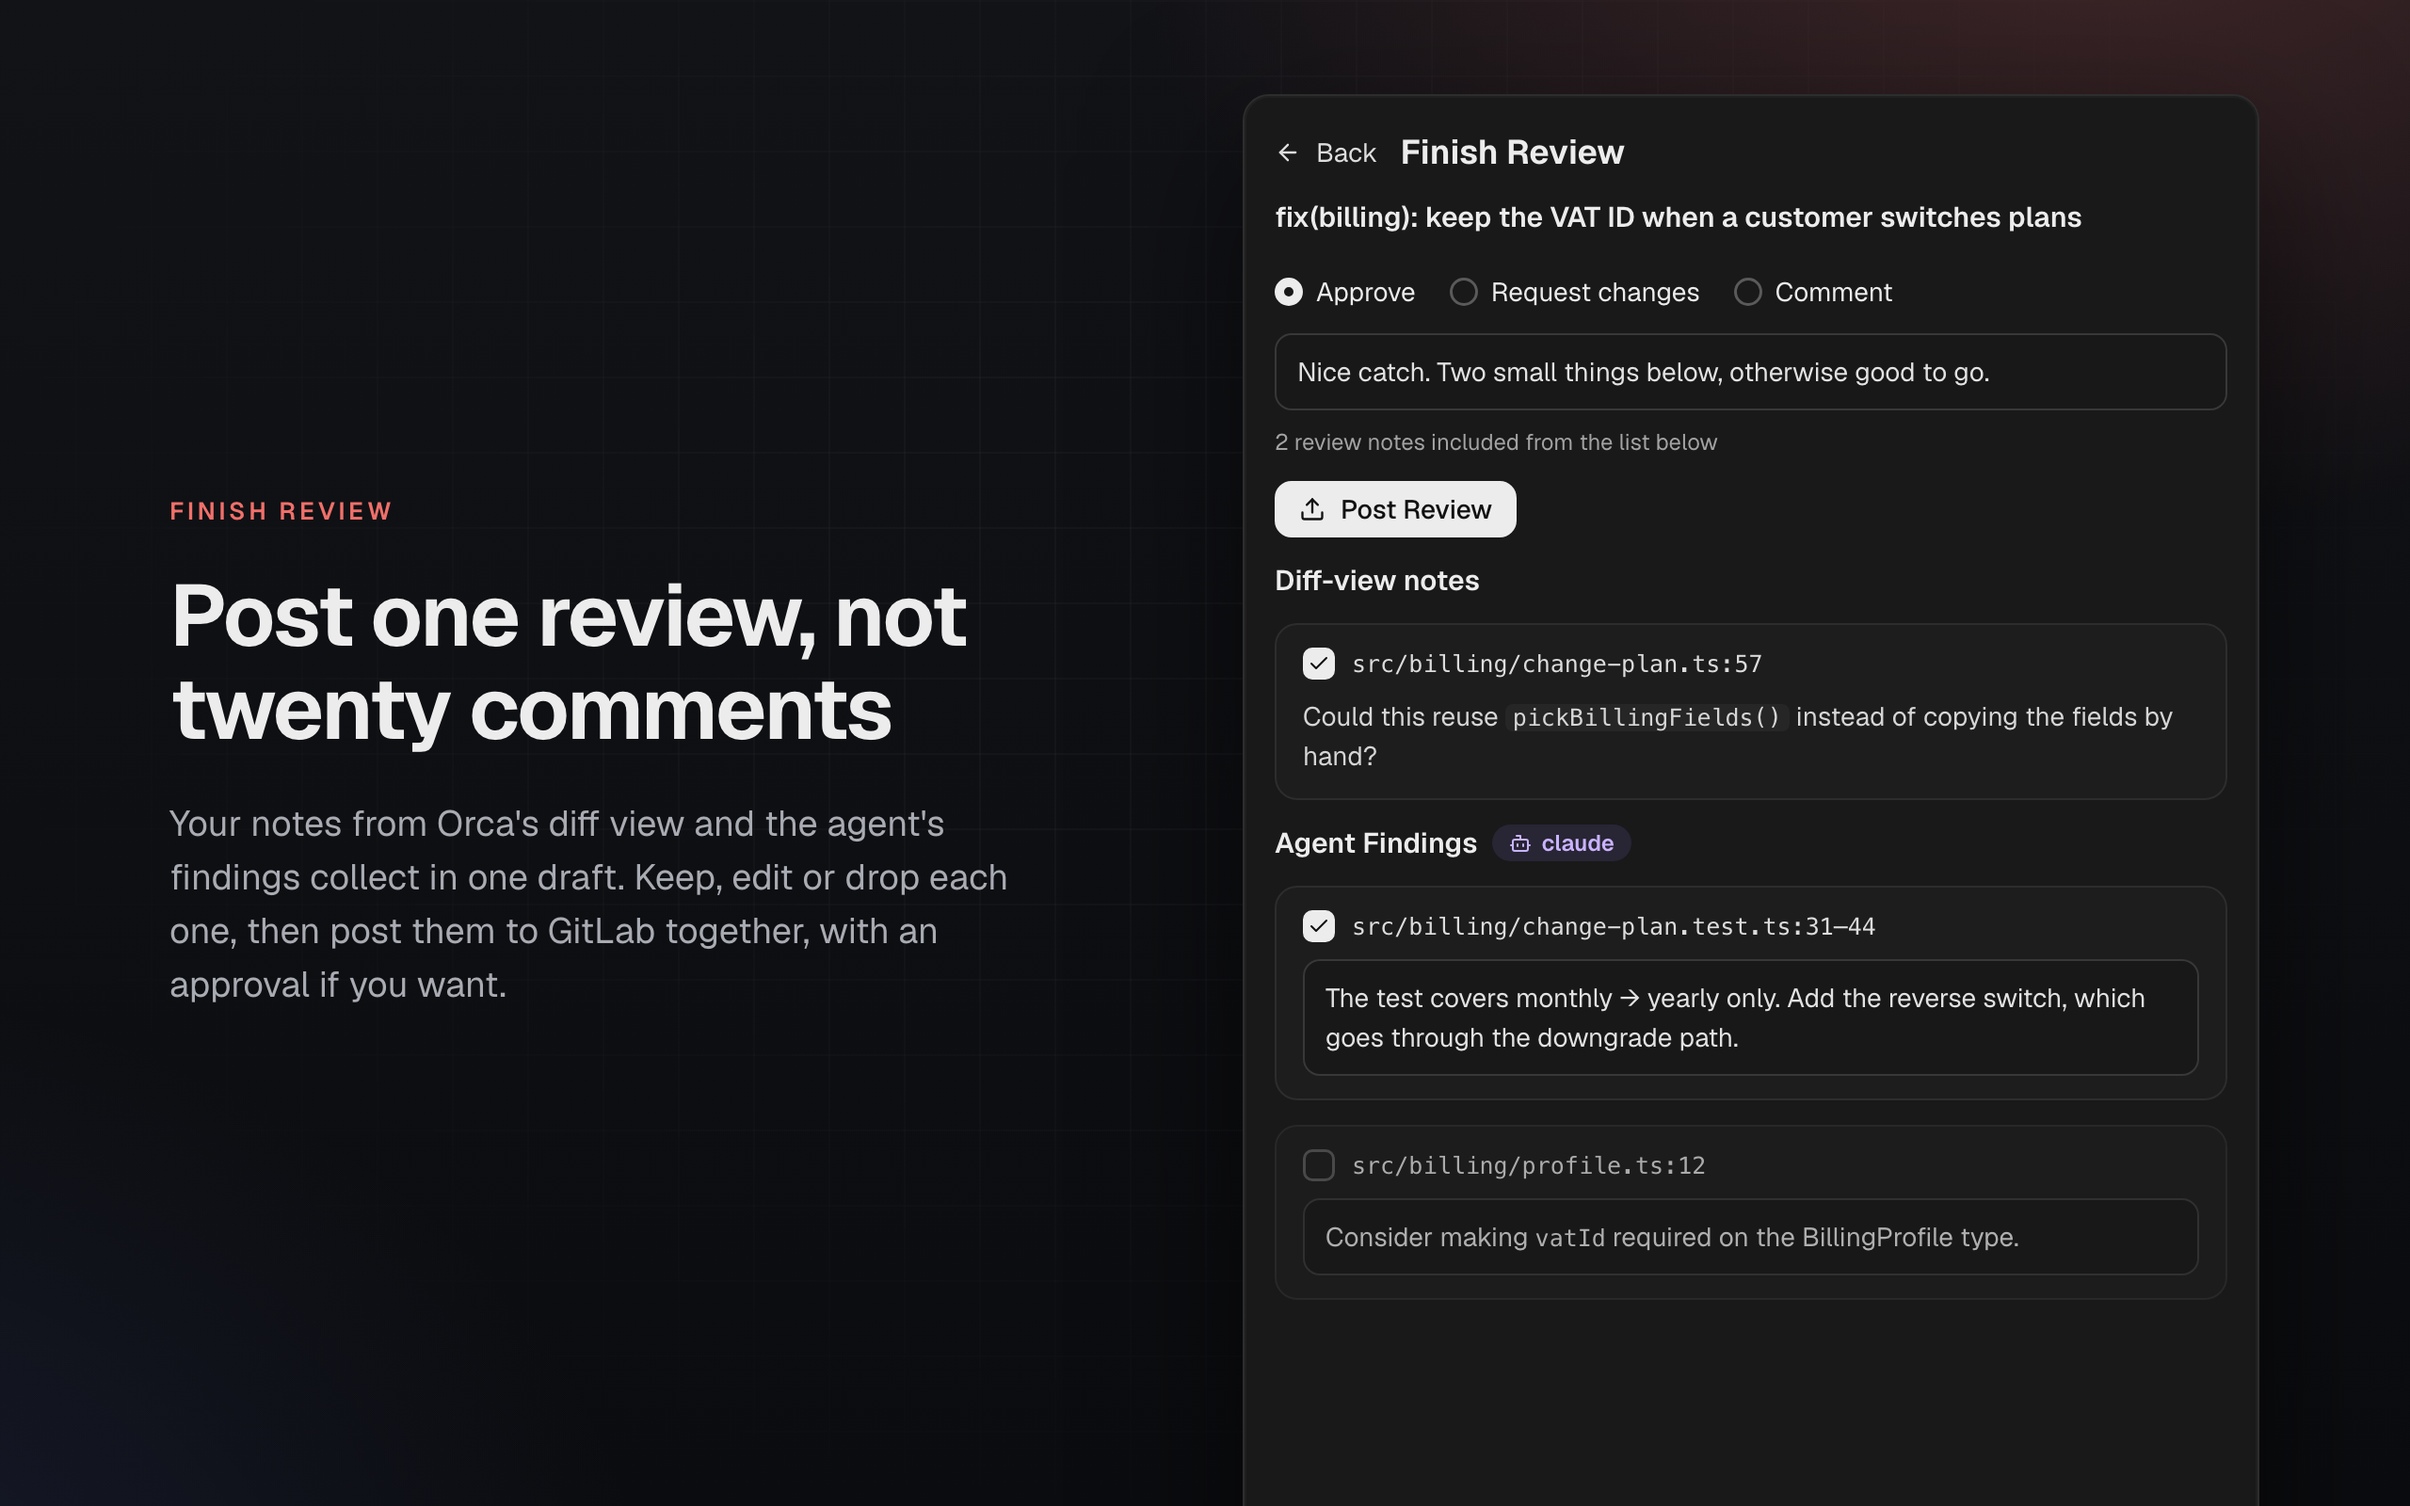
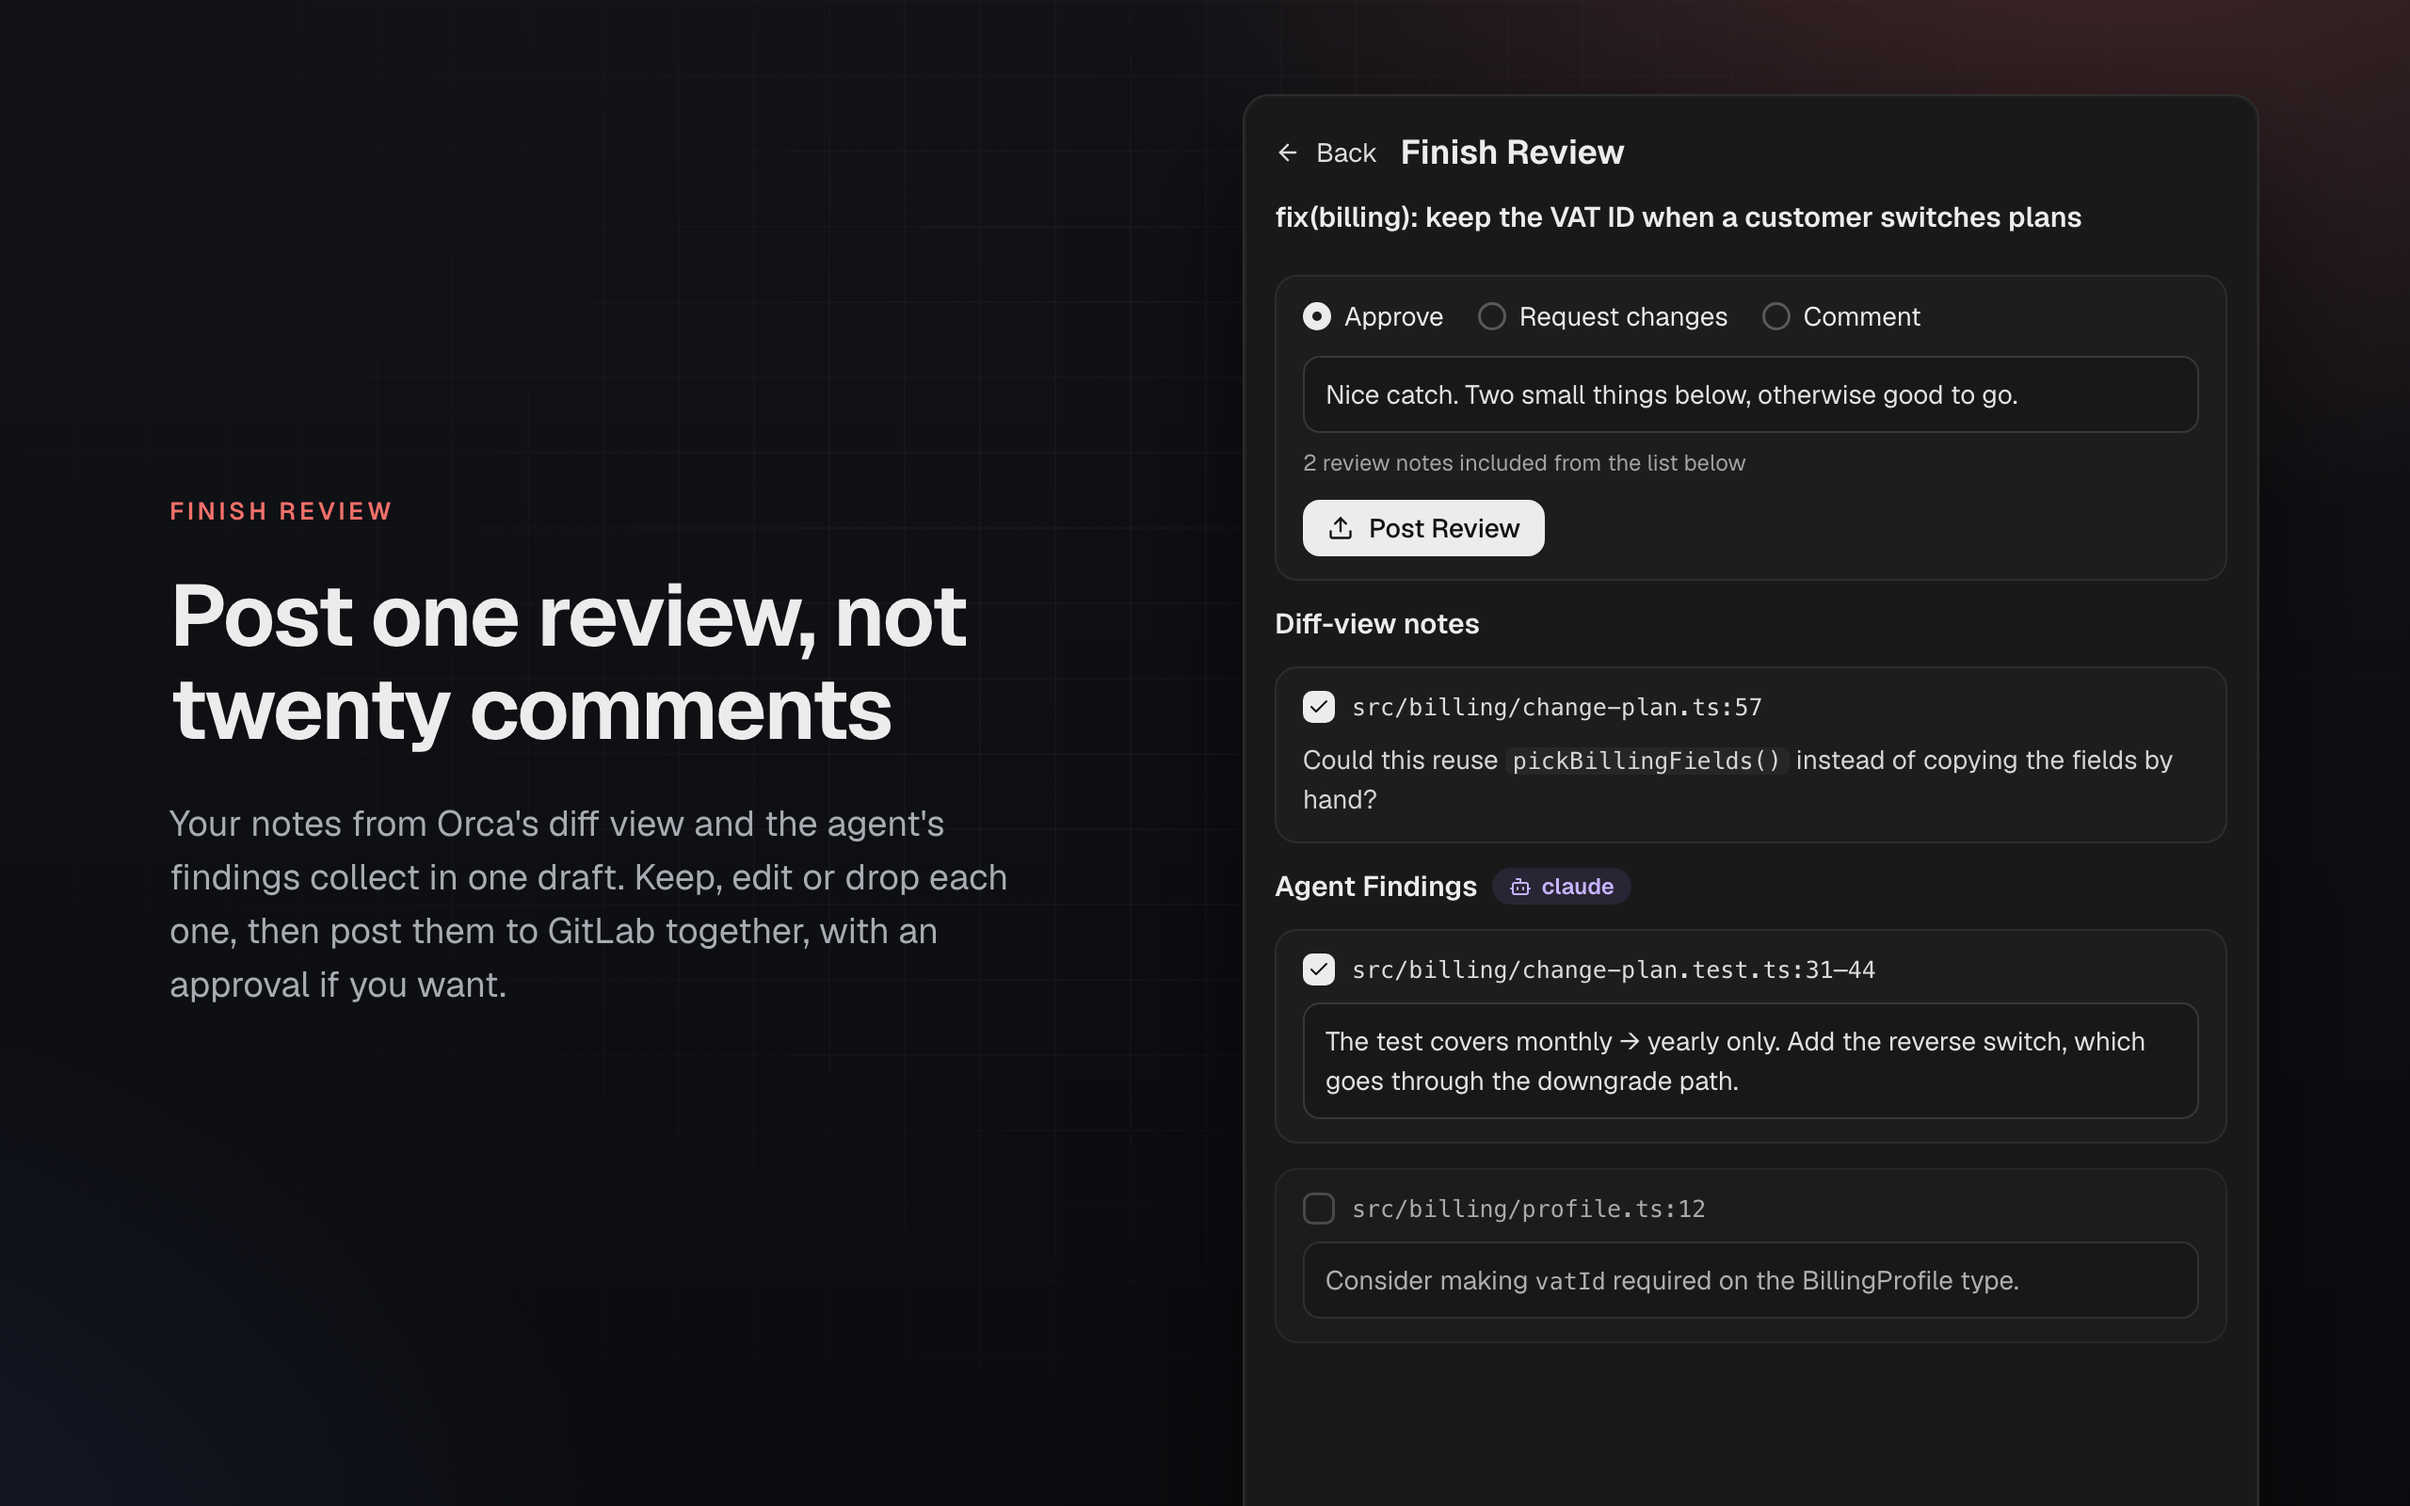
Code Review Requests 0.6.7: the outcome, summary and Post Review sit in a card

Changed region(s): [[0.5312, 0.1875, 0.9062, 0.875]]

diff --git a/plugins/code-review-requests/src/review-post-view.tsx b/plugins/code-review-requests/src/review-post-view.tsx
@@ -6,6 +6,7 @@
 // and the worker turns a 403 into the same hint.
 import {
   atom,
+  Box,
   Callout,
   plugin,
   RadioGroup,
@@ -155,54 +156,56 @@ export function PostSection(props: { draft: ReviewDraftView; onDraft: (draft: Re
   return (
     <Stack gap="sm">
       {current.kind === 'done' && <Outcome result={current.result} draft={draft} onDraft={onDraft} />}
-      <RadioGroup
-        label="Outcome"
-        labelHidden
-        orientation="horizontal"
-        options={OUTCOMES}
-        value={outcomeFor(draft)}
-        disabled={busy}
-        onChange={(value) => set(outcome, value as ReviewOutcome)}
-      />
-      <Textarea
-        label="Summary"
-        labelHidden
-        rows={2}
-        placeholder="Optional: a note on the whole review"
-        value={read(summary)}
-        disabled={busy}
-        onChange={(value) => set(summary, value)}
-      />
-      <Text muted size="xs">{`${plural(unposted, 'review note')} included from the list below`}</Text>
-      {current.kind === 'confirm' && <Warnings preview={current.preview} />}
-      <Row gap="sm">
-        {current.kind === 'confirm' && confirming ? (
-          <Button icon="upload" onPress={() => post(current.preview, outcomeFor(draft), onDraft)}>
-            Post Anyway
-          </Button>
-        ) : (
-          <Button icon="upload" disabled={blocked || nothingToPost || busy} onPress={() => startPost(draft, onDraft)}>
-            Post Review
-          </Button>
+      <Box border radius="md" padding="sm" direction="column" gap="sm">
+        <RadioGroup
+          label="Outcome"
+          labelHidden
+          orientation="horizontal"
+          options={OUTCOMES}
+          value={outcomeFor(draft)}
+          disabled={busy}
+          onChange={(value) => set(outcome, value as ReviewOutcome)}
+        />
+        <Textarea
+          label="Summary"
+          labelHidden
+          rows={2}
+          placeholder="Optional: a note on the whole review"
+          value={read(summary)}
+          disabled={busy}
+          onChange={(value) => set(summary, value)}
+        />
+        <Text muted size="xs">{`${plural(unposted, 'review note')} included from the list below`}</Text>
+        {current.kind === 'confirm' && <Warnings preview={current.preview} />}
+        <Row gap="sm">
+          {current.kind === 'confirm' && confirming ? (
+            <Button icon="upload" onPress={() => post(current.preview, outcomeFor(draft), onDraft)}>
+              Post Anyway
+            </Button>
+          ) : (
+            <Button icon="upload" disabled={blocked || nothingToPost || busy} onPress={() => startPost(draft, onDraft)}>
+              Post Review
+            </Button>
+          )}
+          {confirming && (
+            <Button variant="ghost" onPress={() => set(step, { kind: 'idle' })}>
+              Cancel
+            </Button>
+          )}
+          {current.kind === 'loading' && <Spinner label="Checking GitLab" labelHidden />}
+          {posting && <Spinner label="Posting" labelHidden />}
+        </Row>
+        {blocked && (
+          <Text muted size="xs">
+            {API_SCOPE_HINT}
+          </Text>
         )}
-        {confirming && (
-          <Button variant="ghost" onPress={() => set(step, { kind: 'idle' })}>
-            Cancel
-          </Button>
+        {error !== null && (
+          <Callout tone="danger" icon="error" title="Couldn't post the Review Draft">
+            {error}
+          </Callout>
         )}
-        {current.kind === 'loading' && <Spinner label="Checking GitLab" labelHidden />}
-        {posting && <Spinner label="Posting" labelHidden />}
-      </Row>
-      {blocked && (
-        <Text muted size="xs">
-          {API_SCOPE_HINT}
-        </Text>
-      )}
-      {error !== null && (
-        <Callout tone="danger" icon="error" title="Couldn't post the Review Draft">
-          {error}
-        </Callout>
-      )}
+      </Box>
     </Stack>
   )
 }

diff --git a/plugins/code-review-requests/scripts/images/mock.html b/plugins/code-review-requests/scripts/images/mock.html
@@ -244,10 +244,12 @@ svg.i { width: 1em; height: 1em; fill: none; stroke: currentColor; stroke-width:
     <div class="panel rd" style="height:820px"><div class="panel-in" style="gap:13px">
       <div style="display:flex;align-items:center;gap:12px"><span class="btn" style="border:none;background:none;padding:0;color:#ddd">LEFT Back</span><h2>Finish Review</h2></div>
       <div style="font-weight:600;font-size:15px;margin-bottom:8px">fix(billing): keep the VAT ID when a customer switches plans</div>
-      <div class="radios"><span><i class="on"></i>Approve</span><span><i></i>Request changes</span><span><i></i>Comment</span></div>
-      <div><div class="ta">Nice catch. Two small things below, otherwise good to go.</div></div>
-      <div class="muted" style="font-size:12px;margin-top:-4px">2 review notes included from the list below</div>
-      <div style="display:flex;gap:10px"><span class="btn primary">UPLOAD Post Review</span></div>
+      <div class="box" style="gap:12px">
+        <div class="radios"><span><i class="on"></i>Approve</span><span><i></i>Request changes</span><span><i></i>Comment</span></div>
+        <div><div class="ta">Nice catch. Two small things below, otherwise good to go.</div></div>
+        <div class="muted" style="font-size:12px;margin-top:-4px">2 review notes included from the list below</div>
+        <div style="display:flex;gap:10px"><span class="btn primary">UPLOAD Post Review</span></div>
+      </div>
       <h3>Diff-view notes</h3>
       <div class="box">
         <div class="chk"><span class="cb on">CHECK</span>src/billing/change-plan.ts:57</div>
